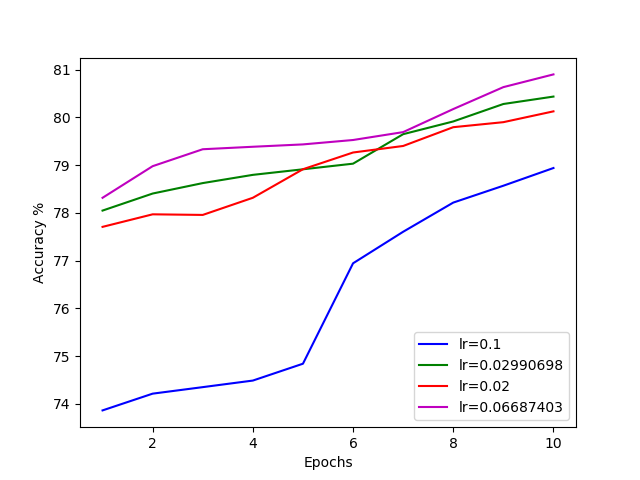
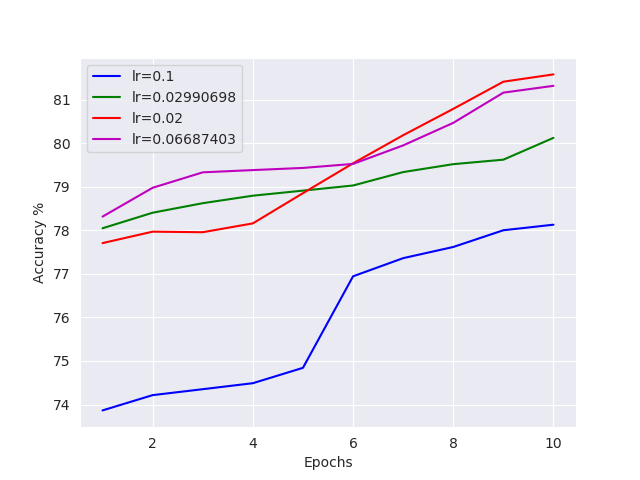
Seaborne

diff --git a/make_graph.py b/make_graph.py
@@ -3,6 +3,7 @@ import os
 import numpy
 import random
 import numpy as np
+import seaborn as sns
 dicts={}
 for x in os.listdir(os.getcwd()):
     if "loss" in x :
@@ -23,6 +24,7 @@ for x in os.listdir(os.getcwd()):
                 dicts[x.split("_")[len(x.split("_"))-1][:num-1]]=accu_list
 print(dicts)
 ls_10=np.linspace(1,10,num=10)
+sns.set_style("darkgrid")
 fig=plt.figure()
 ax=plt.subplot(111)
 ax.plot(ls_10,dicts['0.1'],'b',label='lr=0.1')
